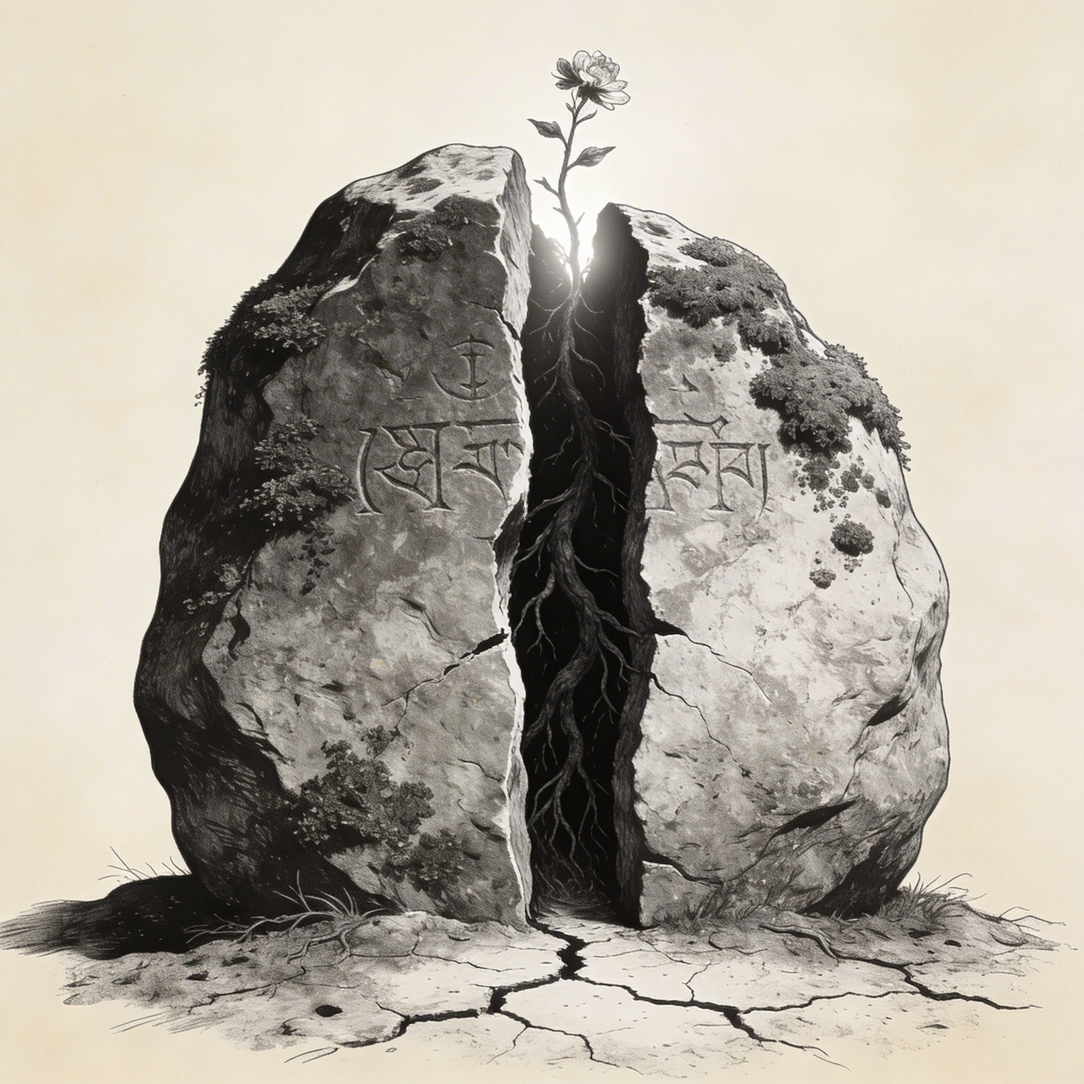
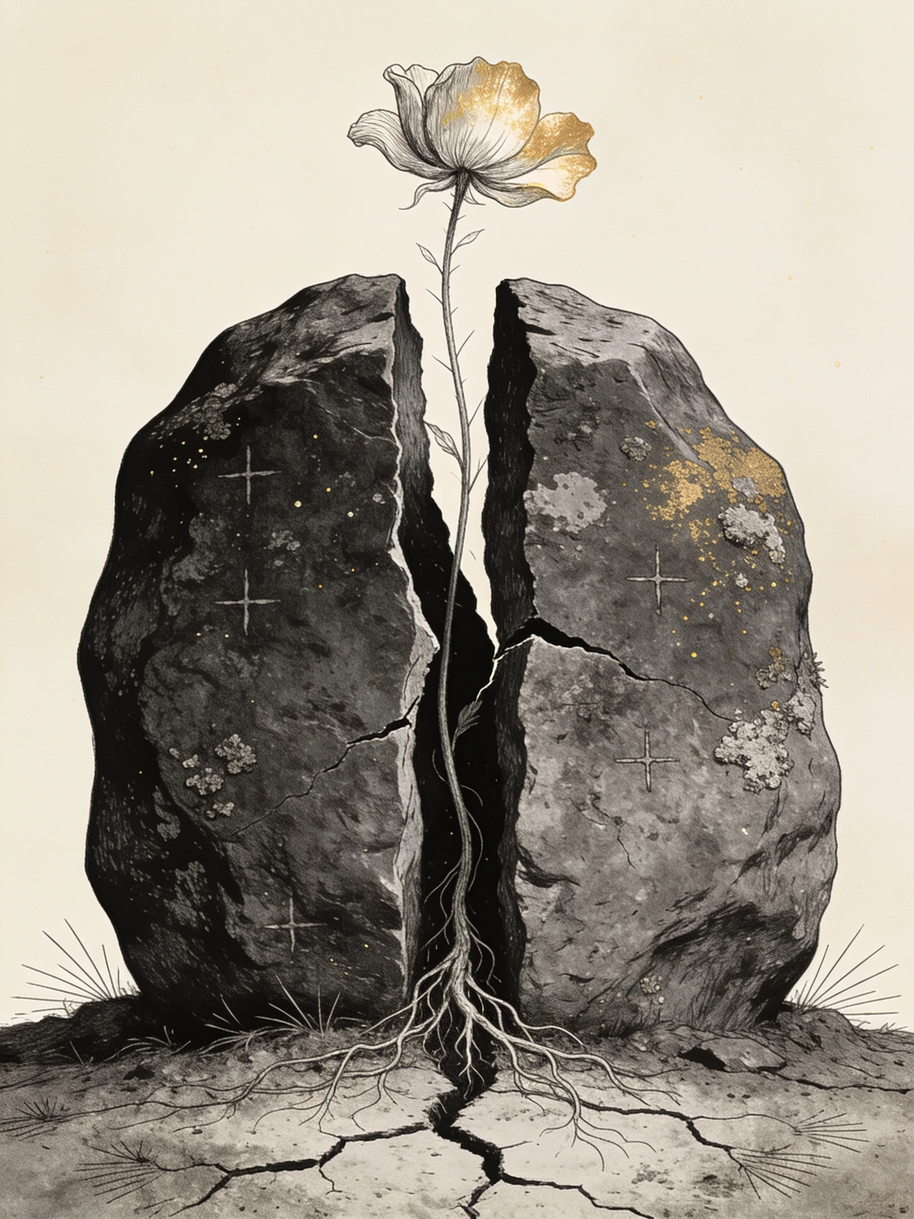
Add WYRD card style rules and updated card art

diff --git a/docs/WYRD_MASTER_CARD_STYLE.md b/docs/WYRD_MASTER_CARD_STYLE.md
@@ -1,0 +1,230 @@
+# WYRD Master Card Style
+
+## Purpose
+
+This document defines the current art direction rules for WYRD oracle card images.
+
+Use it when generating, reviewing, normalizing, replacing, or approving card artwork.
+
+The goal is visual cohesion, not mechanical uniformity. A strong illustration should not be weakened just to satisfy a rigid processing rule.
+
+## Format
+
+- Master aspect ratio: `3:4`.
+- The aspect ratio is required.
+- Exact pixel dimensions are flexible.
+- Recommended generation sizes:
+  - `1536x2048`
+  - `1728x2304`
+  - `2048x2732`
+  - any other size preserving exact `3:4`.
+- Final project assets should be saved as WebP.
+- Prefer the smallest file size without visible quality loss.
+
+The artwork should be created in the native size that produces the strongest result in the chosen generator. If the generator cannot produce `3:4`, choose the closest format that preserves the composition, then normalize carefully only after visual review.
+
+## Background
+
+The card background should read as light bone paper.
+
+Recommended range:
+
+- `#EFE7D8`
+- `#F2EBDD`
+- `#F5EFE3`
+
+Allowed:
+
+- subtle variations of paper warmth between cards
+- extremely light paper texture
+- natural variation created by the illustration process
+
+Forbidden:
+
+- visible gradients
+- gray cast
+- dark parchment effect
+- yellow-brown vintage paper
+- coffee-stain aesthetics
+- dirty texture
+- heavy paper grain
+- strong vignette
+- dramatic color shifts
+
+Do not force every card to one exact background color when the existing paper is light, clean, calm, and visually compatible with the deck.
+
+## Style
+
+WYRD cards use dark folkloric pen-and-ink illustration:
+
+- detailed black ink linework
+- fine crosshatching
+- visible ink texture
+- readable silhouettes
+- restrained and meaningful gold accents only
+
+The illustrations should feel:
+
+- hand-drawn
+- etched
+- ritualistic
+- symbolic
+- mysterious
+- airy
+- ancient
+
+Avoid:
+
+- digital painting look
+- excessive black massing
+- glossy fantasy illustration
+- concept-art rendering
+- overprocessed contrast
+- visual noise
+- decorative fantasy aesthetics
+
+The feeling should be: ink on paper first, image second.
+
+## Composition
+
+The illustration should feel balanced, intentional, and alive.
+
+Most cards should preserve comfortable margins and breathing space around the subject. However, artistic cropping is allowed when it strengthens the image.
+
+Allowed examples:
+
+- roots disappearing beyond the frame
+- branches extending outside the card
+- serpents continuing beyond the edge
+- large spirits partially leaving the frame
+- oversized symbolic elements
+
+Cropping must feel intentional and meaningful.
+
+The goal is not technical completeness. The goal is visual power.
+
+## Character Scale
+
+Characters do not need to occupy the same percentage of the card.
+
+Different cards may use different compositional approaches:
+
+- small figure surrounded by silence
+- medium central figure
+- large dominant spirit
+- oversized symbolic form
+
+Variation is encouraged. Every card should find the scale that best serves its meaning.
+
+## Negative Space
+
+Negative space is an important part of WYRD.
+
+The amount of empty space may vary from card to card:
+
+- some cards may feel spacious and quiet
+- others may feel dense and immersive
+
+Consistency of atmosphere is more important than consistency of geometry.
+
+## Rendering Rules
+
+Required:
+
+- clean linework
+- readable forms
+- visible crosshatching
+- controlled shadow structure
+- strong silhouette design
+
+Avoid:
+
+- blurry anatomy
+- muddy shadows
+- excessive glow
+- overpainting
+- airbrush effects
+- loss of ink texture
+
+The illustration must remain readable at mobile size.
+
+## Gold Usage
+
+Gold is a narrative marker.
+
+Gold should appear only when tied to the meaning of the card:
+
+- eyes
+- sacred objects
+- inner light
+- ritual marks
+- guiding threads
+- embers
+- sparks
+- spiritual energy
+
+Gold should never be added solely for decoration.
+
+The majority of every illustration remains monochrome black ink on light paper.
+
+## Forbidden Elements
+
+Do not include:
+
+- decorative card frames inside the illustration
+- typography inside the artwork
+- UI elements
+- fantasy jewelry
+- random occult symbols
+- decorative overlays
+- unrelated moons or stars
+- generic tarot ornaments
+
+Every element must support the meaning of the card.
+
+## Consistency Rule
+
+All WYRD cards must share:
+
+- the same spiritual world
+- the same visual language
+- the same rendering philosophy
+- the same relationship between ink, paper, and silence
+
+Cards do not need to share:
+
+- identical scale
+- identical framing
+- identical amount of empty space
+- identical crop behavior
+- identical paper tone
+
+The purpose of consistency is unity of atmosphere, not uniformity of composition.
+
+## Practical Review Workflow
+
+Before replacing a working card:
+
+1. Check whether the source image already has a strong `3:4` composition.
+2. Preserve the original composition whenever possible.
+3. Do not change the background if it is already within the light bone-paper range and does not look dirty, gray, vintage, or heavily textured.
+4. Replace or clean the background only when it visibly harms deck cohesion.
+5. Avoid mask-based background replacement when it damages meaningful details such as pale fur, masks, feathers, smoke, fine gold, or light linework.
+6. Generate a preview first.
+7. Replace the working card only after explicit approval.
+
+When a source image is too narrow, too wide, or square, choose the least destructive approach:
+
+- preserve the full image if the composition is strong
+- use intentional crop only when it improves the card
+- extend background only when it does not create visible seams
+- prefer a new generated `3:4` image when normalization weakens the artwork
+
+## Change Log
+
+### 2026-06-06
+
+- Revised the card art rules after deck normalization exposed quality loss from overly rigid background and format constraints.
+- Confirmed that exact pixel size and exact paper color are flexible.
+- Kept `3:4` as the required aspect ratio.
+- Added explicit guidance to preserve visual power over mechanical uniformity.

diff --git a/docs/README.md b/docs/README.md
@@ -24,6 +24,7 @@
 8. [CONTENT_MODEL.md](/Users/marinamart/Desktop/Oracle_dev/docs/CONTENT_MODEL.md)
 9. [ADR.md](/Users/marinamart/Desktop/Oracle_dev/docs/ADR.md)
 10. [WORKFLOW_WITH_CODEX.md](/Users/marinamart/Desktop/Oracle_dev/docs/WORKFLOW_WITH_CODEX.md)
+11. [WYRD_MASTER_CARD_STYLE.md](/Users/marinamart/Desktop/Oracle_dev/docs/WYRD_MASTER_CARD_STYLE.md)
 
 ---
 
@@ -36,6 +37,7 @@
 - [ROADMAP.md](/Users/marinamart/Desktop/Oracle_dev/docs/ROADMAP.md) — план развития
 - [FEATURES.md](/Users/marinamart/Desktop/Oracle_dev/docs/FEATURES.md) — список текущих и будущих функций
 - [CONTENT_MODEL.md](/Users/marinamart/Desktop/Oracle_dev/docs/CONTENT_MODEL.md) — модель контента, сущностей и текстов
+- [WYRD_MASTER_CARD_STYLE.md](/Users/marinamart/Desktop/Oracle_dev/docs/WYRD_MASTER_CARD_STYLE.md) — арт-дирекшен, формат и правила обработки изображений карт
 
 ### Техника
 
@@ -56,6 +58,7 @@
 - Если меняется продуктовый приоритет, обновляем [ROADMAP.md](/Users/marinamart/Desktop/Oracle_dev/docs/ROADMAP.md).
 - Если добавляется или меняется сценарий пользователя, обновляем [FEATURES.md](/Users/marinamart/Desktop/Oracle_dev/docs/FEATURES.md).
 - Если меняется контентная сущность, формат карты или расклада, обновляем [CONTENT_MODEL.md](/Users/marinamart/Desktop/Oracle_dev/docs/CONTENT_MODEL.md).
+- Если меняется визуальный стиль, формат генерации, фон или правила обработки изображений карт, обновляем [WYRD_MASTER_CARD_STYLE.md](/Users/marinamart/Desktop/Oracle_dev/docs/WYRD_MASTER_CARD_STYLE.md).
 - Если принимается важное техническое или продуктовое решение, записываем его в [ADR.md](/Users/marinamart/Desktop/Oracle_dev/docs/ADR.md).
 - Если меняется выпускной процесс, smoke-проверки или deploy-поток, обновляем [RELEASE_CHECKLIST.md](/Users/marinamart/Desktop/Oracle_dev/docs/RELEASE_CHECKLIST.md).
 
